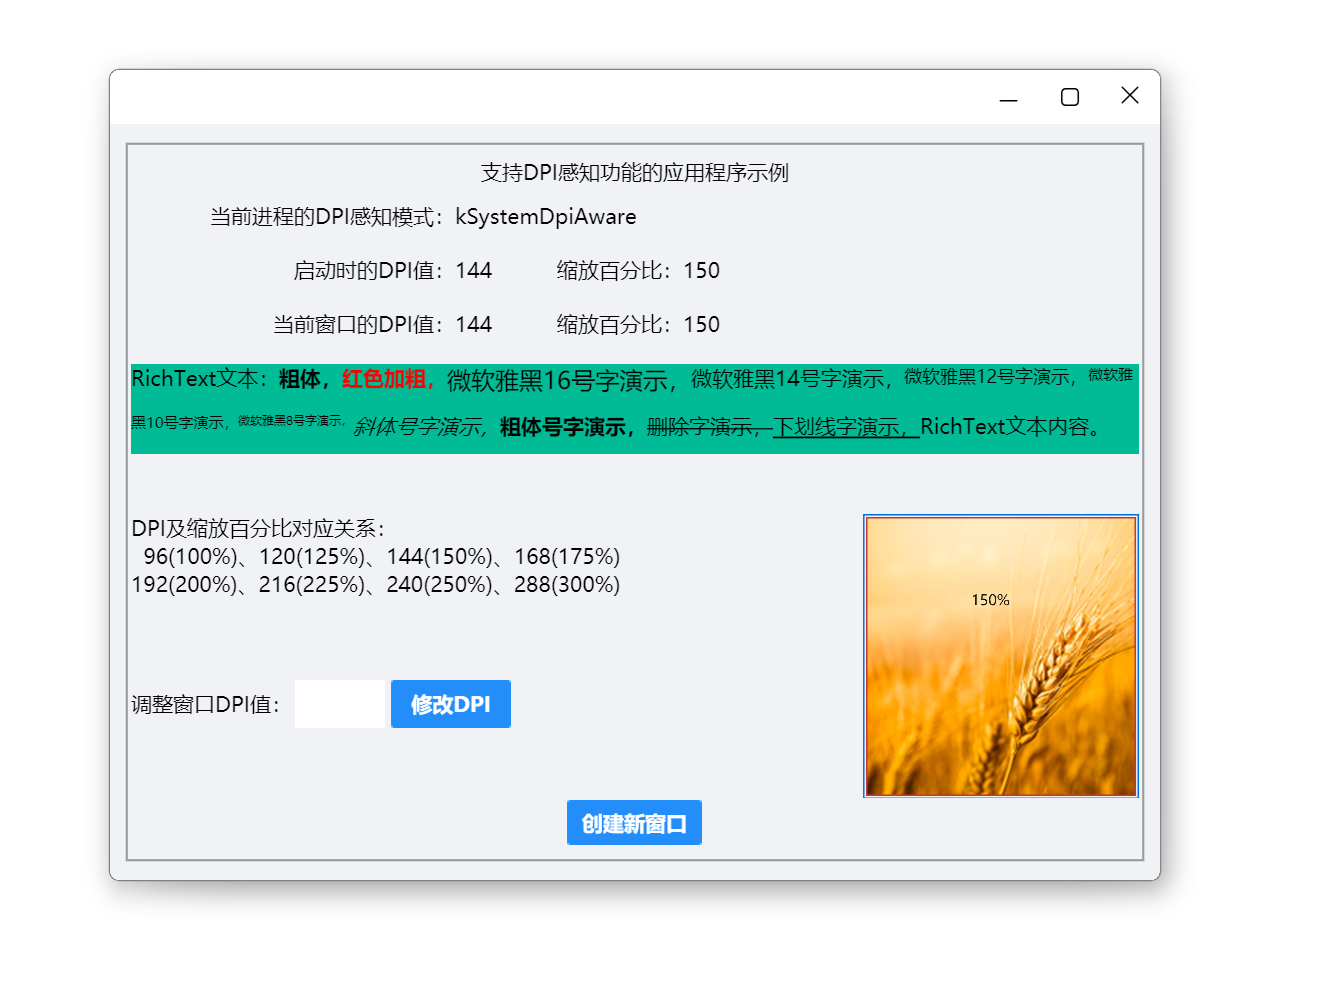
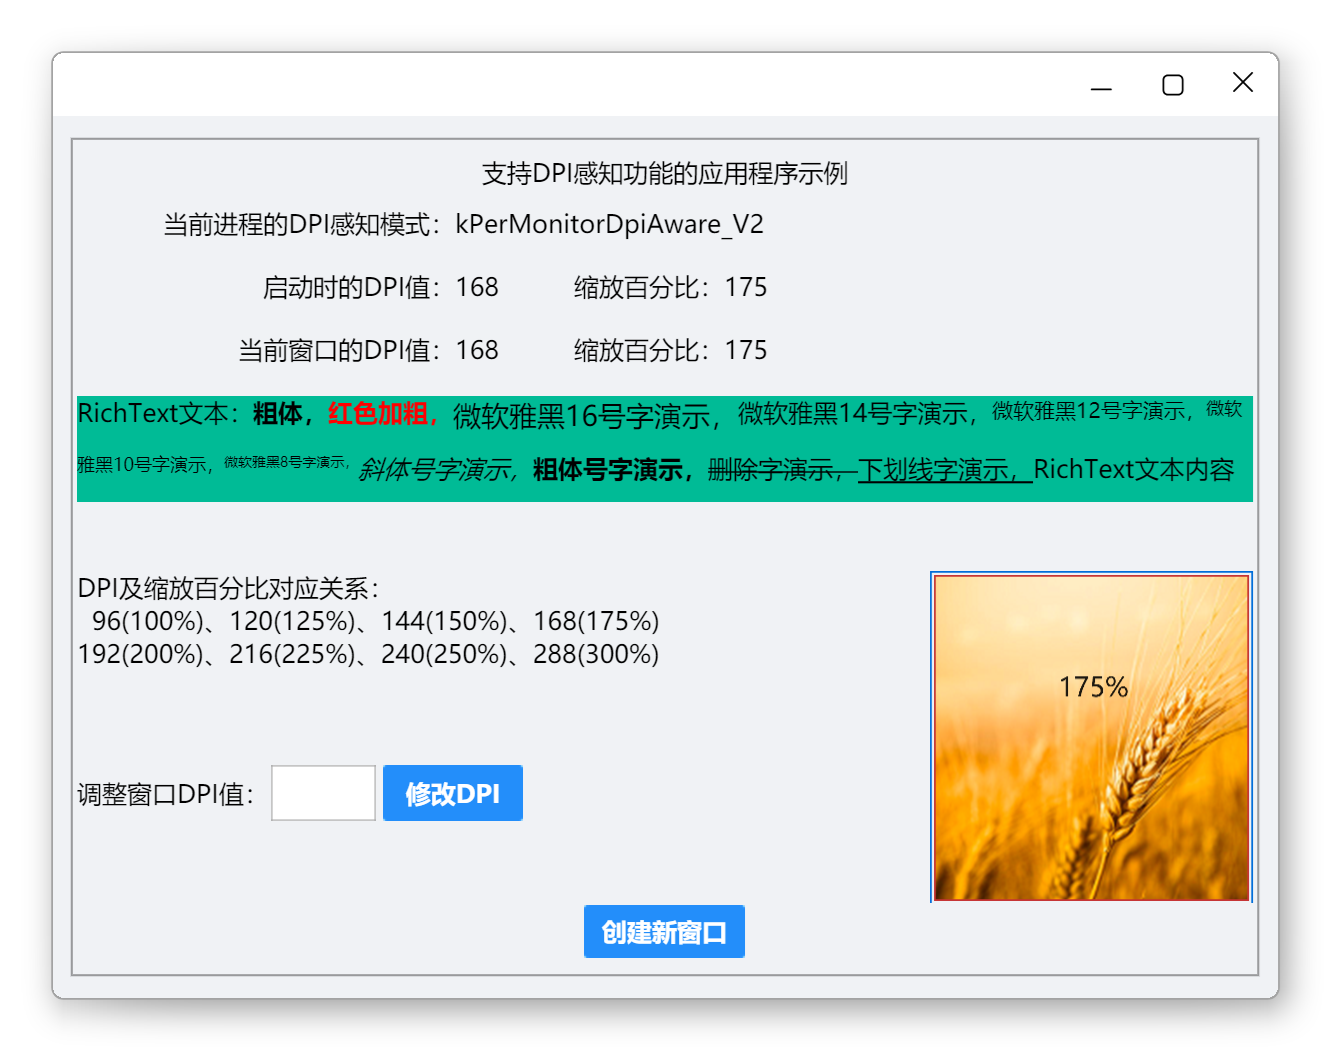
完善REASME.md等文档，将各个示例程序的截图更新到最新。

Changed region(s): [[0.0307, 0.0618, 0.9828, 0.988], [0.2764, 0.6793, 0.3993, 0.7719]]

diff --git a/README.md b/README.md
@@ -55,7 +55,7 @@
     <tr><td align="left">10. CEF组件放到duilib工程，并对CEF的版本进行了升级（支持libcef 109 版本，以兼容Win7系统；支持libcef 137 版本，支持Win10及以上操作系统）</td></tr>
     <tr><td align="left">11. 重新设计图片管理的接口和加载流程（Image目录），支持多线程加载图片，以更好的扩展其他图片格式支持</td></tr>
     <tr>
-        <td rowspan="19">功能完善</td>
+        <td rowspan="20">功能完善</td>
         <td align="left">1. 对窗口类（Window）增加了新的属性：的功能进行了完善，提高对DPI自适应、窗口消息的代码容错，代码结构做了调整</td>
     </tr>
     <tr><td align="left">2. 对窗口类（Window）增加了新的属性：use_system_caption，snap_layout_menu，sys_menu，sys_menu_rect, icon属性，提供使用操作系统默认标题栏的选项，自绘标题栏的功能与系统标题栏的功能相似</td></tr>
@@ -65,7 +65,7 @@
     <tr><td align="left">6. 对组合框（Combo）关联的控件（CheckCombo、FilterCombo）进行了优化，提升可用性</td></tr>
     <tr><td align="left">7. 对日期时间（DateTime）控件的编辑功能进行了完善</td></tr>
     <tr><td align="left">8. 对菜单（CMenuWnd）类的功能代码进行优化，按新的结构重新实现菜单，使得菜单内的控件完全兼容现有容器/控件体系，易于理解和维护</td></tr>
-    <tr><td align="left">9. 对富文本编辑控件（RichEdit）进行功能优化和扩展，丰富了较多常用功能</td></tr>
+    <tr><td align="left">9. 对文本编辑控件（RichEdit）进行功能优化和扩展，丰富了较多常用功能</td></tr>
     <tr><td align="left">10. 对树控件（TreeView）进行功能优化和扩展，丰富了较多常用功能，提升可用性</td></tr>
     <tr><td align="left">11. 全局资源（GlobalManager）的接口进行了优化，使得所有资源全部通过此接口管理，易于理解和维护</td></tr>
     <tr><td align="left">12. 同一个窗口内的不同容器之间，容器内的控件可以通过属性设置支持拖出和拖入操作</td></tr>
@@ -76,6 +76,7 @@
     <tr><td align="left">17. 优化窗口的阴影功能，窗口的阴影使用svg图片，增加了阴影类型属性（shadow_type），可选值为：<br> "default", 默认阴影 <br> "big", 大阴影，直角（适合普通窗口）<br> "big_round", 大阴影，圆角（适合普通窗口）<br> "small", 小阴影，直角（适合普通窗口）<br> "small_round", 小阴影，圆角（适合普通窗口）<br> "menu", 小阴影，直角（适合弹出式窗口，比如菜单等）<br> "menu_round", 小阴影，圆角（适合弹出式窗口，比如菜单等）<br> "none", 无阴影</td></tr>
     <tr><td align="left">18. 新增对APNG/SVG/WEBP/ICO/LOTTIE/PAG图片格式的支持</td></tr>
     <tr><td align="left">19. 重新设计控件的loading功能，使用Box容器展示loading功能，通过xml文件配置loading界面（包括动画图片），并支持与动画图片交互</td></tr>
+    <tr><td align="left">20. Label文本显示控件的功能加强：对文本齐方式新增加"两端对齐"，新增对竖排文本的支持（文本绘制方向从上到下，从右到左），新增支持设置行间距和设置字间距</td></tr>
     <tr>
         <td rowspan="19">新增控件</td>
         <td align="left">1. GroupBox：分组容器</td>
@@ -169,6 +170,8 @@
 ## 支持的操作系统
 - Windows：Windows 7.0 版本及以上
 - Linux：OpenEuler、OpenKylin（开放麒麟）、UbuntuKylin（优麒麟）、中科方德、统信UOS、Ubuntu、Debian、Fedora、OpenSuse等
+- macOS
+- FreeBSD
 
 ## 支持的编译器
 - Visual Studio 2022（Windows）
@@ -177,8 +180,9 @@
 - gcc/g++（Linux）
 - clang/clang++（Linux）
 - clang/clang++（macOS）
+- clang/clang++（FreeBSD）
 
-## 获取代码和编译（Windows平台）
+## A. 编译过程（Windows平台）
 ### 一、准备工作：安装必备的软件
 1. 安装python3（python的主版本需要是3，需要添加到Path环境变量）    
 （1）首先安装python3    
@@ -187,11 +191,12 @@
 （4）在命令行验证：`> python3.exe --version` 可以查看python的版本号     
 2. 安装Git For Windows: 2.44版本，git需要添加到Path环境变量，确保命令行参数中可以访问到git.exe    
 3. 安装Visual Studio 2022社区版    
-4. 安装LLVM：20.1.0 Win64 版本    
+4. 安装LLVM：21.1.4 Win64 版本（其他版本也可以）    
 （1）安装目录：`C:\LLVM`    
 （2）注意事项：如果安装在其他目录，安装目录中不能有空格，否则编译会遇到问题。
 
-### 二、一键编译（推荐）
+### 二、使用脚本自动编译（推荐）
+该脚本自动完成相关源码下载和编译工作。    
 选定一个工作目录，创建一个脚本`build.bat`，将下面已经整理好脚本复制进去，保存文件。    
 脚本文件内容如下：    
 ```
@@ -227,7 +232,7 @@ if %errorlevel% neq 0 (
 （2）按照skia_compile目录中的[Windows下编译skia.md](https://github.com/rhett-lee/skia_compile/blob/main/Windows%E4%B8%8B%E7%BC%96%E8%AF%91skia.md)文档中的方法，编译出skia相关的.lib文件      
 3. 编译nim_duilib：进入 `build` 目录，打开 `examples.sln`，可执行编译，编译完成的示例程序位于bin目录中。
 
-## 获取代码和编译（Linux平台）
+## B. 编译过程（Linux平台）
 ### 一、准备工作：安装必备的软件
 不同的操作系统平台，可以按照以下列表安装必备的软件。
 | 操作系统平台            |桌面类型        |需要安装的模块及安装命令（必选） | 
@@ -242,7 +247,8 @@ if %errorlevel% neq 0 (
 |Fedora                   |GNOME（Wayland）|`sudo dnf install -y gcc g++ gdb make git ninja-build gn python cmake llvm clang unzip fontconfig-devel mesa-libGL-devel mesa-libGLU-devel mesa-libGLES-devel mesa-libEGL-devel vulkan-devel libXext-devel libXcursor-devel libXi-devel libXrandr-devel dbus-devel ibus-devel wayland-devel libxkbcommon-devel`|
 |OpenSuse                 |KDE（X11）      |`sudo zypper install -y gcc gcc-c++ gdb make git ninja gn python cmake llvm clang unzip fontconfig-devel Mesa-libGL-devel Mesa-libEGL-devel Mesa-libGLESv3-devel glu-devel vulkan-devel libXext-devel libXcursor-devel libXi-devel libXrandr-devel dbus-1-devel ibus-devel`|
 
-### 二、一键编译（推荐）
+### 二、使用脚本自动编译（推荐）
+该脚本自动完成相关源码下载和编译工作。    
 选定一个工作目录，创建一个脚本`build.sh`，将下面已经整理好脚本复制进去，保存文件。    
 然后在控制台，为脚本文件添加可执行权限，最后运行该脚本： 
 ```
@@ -314,7 +320,7 @@ chmod +x linux_build.sh
 编译完成后，在bin目录中生成了可执行文件。    
 如果希望支持CEF，可以参考相关文档[docs/CEF.md](docs/CEF.md)。
 
-## 获取代码和编译（macOS平台）
+## C. 编译过程（macOS平台）
 ### 一、准备工作：安装必备的软件
 安装完成系统后，需要做的工作：    
 #### 安装Xcode命令行工具
@@ -357,7 +363,8 @@ sudo cp out/gn /usr/local/bin/
 gn --version
 ```
 
-### 二、一键编译（推荐）
+### 二、使用脚本自动编译（推荐）
+该脚本自动完成相关源码下载和编译工作。    
 选定一个工作目录，创建一个脚本`build.sh`，将下面已经整理好脚本复制进去，保存文件。    
 然后在控制台，为脚本文件添加可执行权限，最后运行该脚本： 
 ```
@@ -420,12 +427,13 @@ chmod +x macos_build.sh
 编译完成后，在bin目录中生成了可执行文件。    
 如果希望支持CEF，可以参考相关文档[docs/CEF.md](docs/CEF.md)。
 
-## 获取代码和编译（FreeBSD平台）
+## D. 编译过程（FreeBSD平台）
 ### 一、准备工作：安装必备的软件
 ```
 sudo pkg install git unzip python3 cmake ninja gn llvm fontconfig freetype2
 ```
-### 二、一键编译（推荐）
+### 二、使用脚本自动编译（推荐）
+该脚本自动完成相关源码下载和编译工作。    
 选定一个工作目录，创建一个脚本`build.sh`，将下面已经整理好脚本复制进去，保存文件。    
 然后在控制台，为脚本文件添加可执行权限，最后运行该脚本： 
 ```
@@ -489,7 +497,7 @@ chmod +x ./build/freebsd_build.sh
 编译完成后，在bin目录中生成了可执行文件。    
 
 ## 开发计划
- - 跨平台（Windows/Linux/macOS）的窗口引擎（基于[SDL3.0](https://www.libsdl.org/)）不断测试与完善（X11和Wayland）
+ - 跨平台（Windows/Linux/macOS/FreeBSD）的窗口引擎（基于[SDL3.0](https://www.libsdl.org/)）不断测试与完善（X11和Wayland）
  - 动画功能的加强
  - 不断测试发现缺陷并修复，不断完善代码
  - 其他待补充

diff --git a/docs/Examples.md b/docs/Examples.md
@@ -1,68 +1,81 @@
 ## 示例程序
-examples 目录中包含了一些示例程序，你可以参考这些示例程序来完善你的应用程序。
+examples 目录中包含了一些示例程序，可以参考这些示例程序来完善自己的应用程序。
 
 ## 1. examples/basic
 一个基础的窗口示例程序，带有最小化、最大化、还原和关闭按钮。    
-<img src="./Images/basic.png"/>
+<img width="700" src="./Images/basic.png"/>
 
-## 2. examples/cef
-演示如何在 nim_duilib 中使用 CEF 控件，包含 C++ 与 JavaScript 交互。    
-<img src="./Images/cef.png"/>
+## 2. examples/ColorPicker
+演示如何使用拾色器控件的程序。    
+<img width="700" src="./Images/ColorPicker.png"/>
 
-## 3. examples/ColorPicker
-演示如何使用拾色器控件的程序。
-<img src="./Images/ColorPicker.png"/>
-
-## 4. examples/controls
+## 3. examples/controls
 一些常用控件的样式使用方法示例。    
-<img src="./Images/controls.png"/>
+<img width="900" src="./Images/controls.png"/>
 
-## 5. examples/layouts
-包含一个登录窗口和一个模拟微信 PC 聊天布局的窗口示例。    
-<img src="./Images/layouts.png"/>
+## 4. examples/chat
+包含一个登录窗口和一个模拟 PC 聊天布局的窗口示例。    
+<img width="800" src="./Images/chat.png"/>
 
-## 6. examples/ListBox
-演示如何使用ListBox容器的程序。
-<img src="./Images/ListBox.png"/>
+## 5. examples/ListBox
+演示如何使用ListBox容器的程序。    
+<img width="600" src="./Images/ListBox.png"/>
     
-## 7. examples/ListCtrl
+## 6. examples/ListCtrl
 演示如何使用ListCtrl控件。    
-<img src="./Images/ListCtrl.png"/>
+<img width="1000" src="./Images/ListCtrl.png"/>
 
-## 8. examples/MoveControl
+## 7. examples/MoveControl
 演示如何使用Box容器的"drag_out_id"和"drop_in_id"属性来实现控件在不同容器之间的移动效果。    
-<img src="./Images/MoveControl.png"/>
-    
-## 9. examples/CefBrowser
-基于 CEF 的自定义多标签可拖曳浏览器示例。
-<img src="./Images/CefBrowser.png"/>
-    
-## 10. examples/render
+<img width="600" src="./Images/MoveControl.png"/>
+   
+## 8. examples/render
 演示如何使用渲染引擎的程序，同时也包含了各种控件/容器的使用示例。    
-<img src="./Images/render01.png"/>
-<img src="./Images/render02.png"/>
-<img src="./Images/render03.png"/>
+<img width="900" src="./Images/render01.png"/>
+<img width="900" src="./Images/render02.png"/>
+<img width="900" src="./Images/render03.png"/>
+<img width="900" src="./Images/render04.png"/>
 
-## 11. examples/RichEdit
+## 9. examples/RichEdit
 演示如何使用RichEdit控件。    
-<img src="./Images/RichEdit.png"/>
+<img width="900" src="./Images/RichEdit.png"/>
 
-## 12. examples/TreeView
+## 10. examples/TreeView
 演示如何使用TreeView控件。    
-<img src="./Images/TreeView.png"/>
+<img width="900" src="./Images/TreeView.png"/>
     
-## 13. examples/VirtualListBox
+## 11. examples/VirtualListBox
 演示如何使用基于虚表实现的ListBox容器。    
-<img src="./Images/VirtualListBox.png"/>
+<img width="900" src="./Images/VirtualListBox.png"/>
     
-## 14. examples/MultiLang
+## 12. examples/MultiLang
 演示如何使用多语言功能，支持多语言的动态切换。    
-<img src="./Images/MultiLang.png"/>
+<img width="700" src="./Images/MultiLang.png"/>
 
-## 15. examples/DpiAware
+## 13. examples/DpiAware
 演示如何使用DPI感知功能，如何动态设置窗口的DPI。    
-<img src="./Images/DpiAware.png"/>
+<img width="700" src="./Images/DpiAware.png"/>
 
-## 16. examples/threads
+## 14. examples/threads
 演示如何使用多线程功能，包含多线程通信等。    
-<img src="./Images/threads.png"/>
+<img width="800" src="./Images/threads.png"/>
+
+## 15. examples/layout
+演示容器的各种布局。    
+<img width="1000" src="./Images/layout.png"/>
+
+## 16. examples/cef
+演示如何在使用 CEF 控件，包含 C++ 与 JavaScript 交互。    
+<img width="700" src="./Images/cef.png"/>
+
+## 17. examples/CefBrowser
+基于 CEF 的自定义多标签可拖曳浏览器示例。    
+<img width="800" src="./Images/CefBrowser.png"/>
+    
+## 18. examples/WebView2
+演示如何在使用 WebView2 控件。    
+<img width="800" src="./Images/WebView2.png"/>
+
+## 19. examples/WebView2Browser
+基于 WebView2 的自定义多标签可拖曳浏览器示例。    
+<img width="800" src="./Images/WebView2Browser.png"/>
